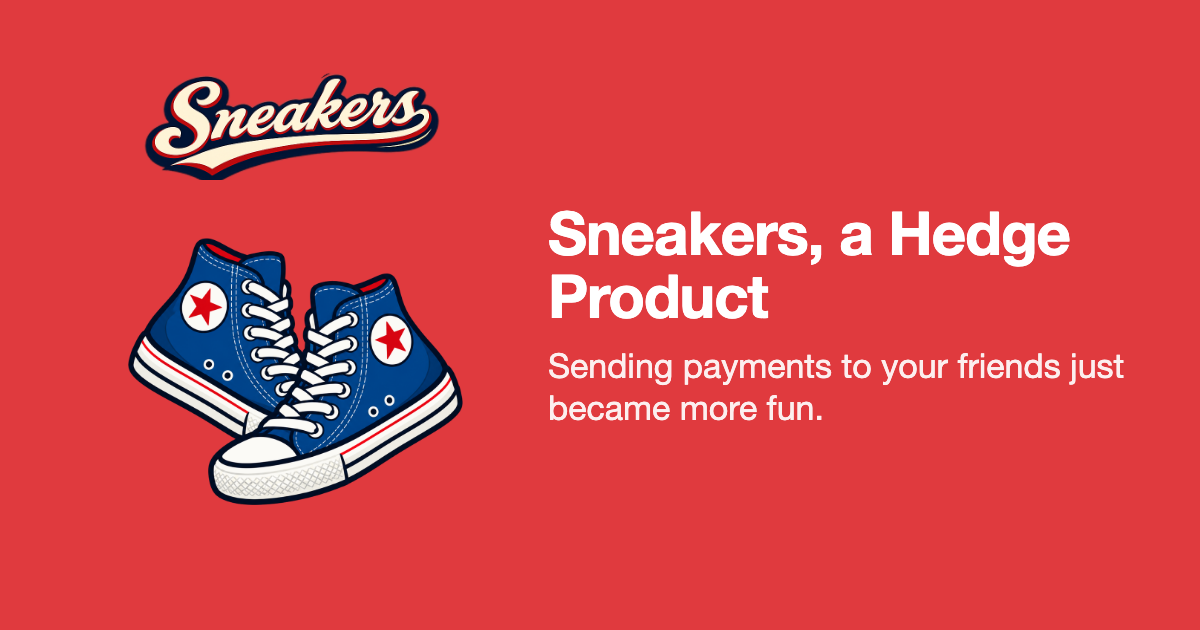
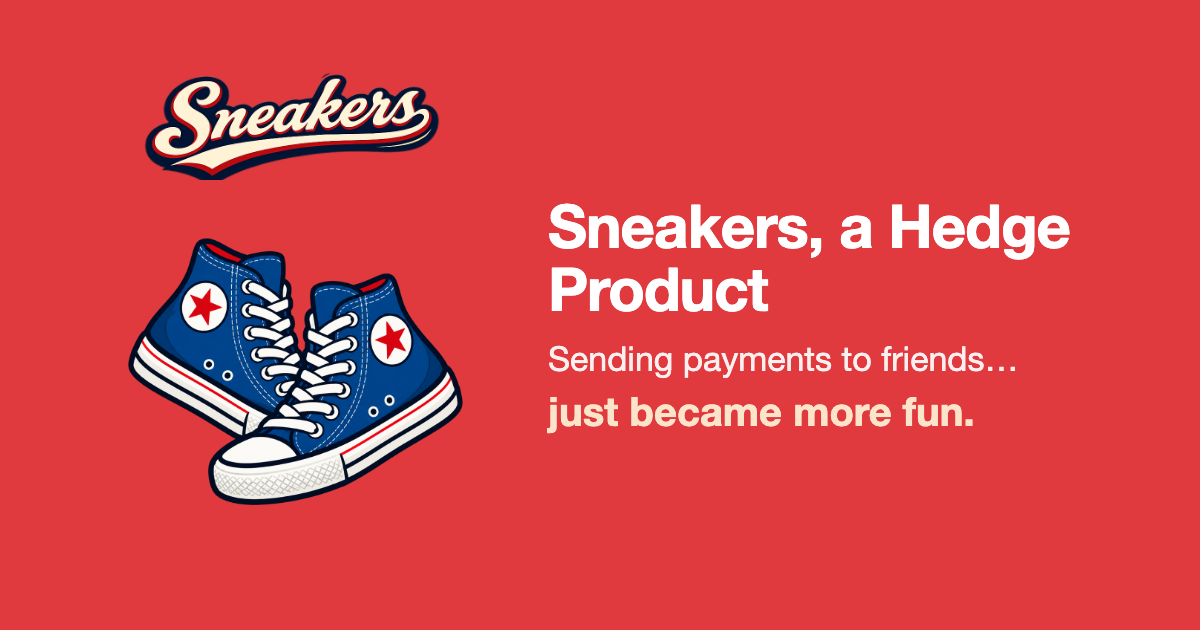
Homepage: "Sending payments to friends… just became more fun." with a bouncing Peace Sans punchline and bobbing shoes

Changed region(s): [[0.4317, 0.3016, 0.8942, 0.5127], [0.4317, 0.5429, 0.9558, 0.6032], [0.4317, 0.6333, 0.8017, 0.6937]]

diff --git a/apps/platform/src/app/page.tsx b/apps/platform/src/app/page.tsx
@@ -4,8 +4,12 @@ import type { Metadata, Viewport } from 'next'
 // sneakersterminal.com is now the front door of Sneakers, the P2P payments app.
 // The red is the app icon's own background, so the icon sits on the page seamlessly.
 const RED = '#E03A3E'
+const CREAM = '#FFF3D6'
+const NAVY = '#0B1E3F'
 const NAME = 'Sneakers, a Hedge Product'
-const TAGLINE = 'Sending payments to your friends just became more fun.'
+const LEAD = 'Sending payments to friends…'
+const PUNCH = 'just became more fun.'
+const TAGLINE = `${LEAD} ${PUNCH}`
 
 export const metadata: Metadata = {
   title: 'Sneakers',
@@ -29,12 +33,38 @@ export const viewport: Viewport = {
   themeColor: RED,
 }
 
+// The punchline's letters bounce in one by one, then ripple every few seconds;
+// the shoes bob. Reduced motion turns all of it off.
+const MOTION = `
+@keyframes sneakers-fade-up { from { opacity: 0; transform: translateY(10px) } to { opacity: 1; transform: none } }
+@keyframes sneakers-pop-in {
+  0% { opacity: 0; transform: translateY(0.55em) rotate(-10deg) scale(0.7) }
+  60% { opacity: 1; transform: translateY(-0.14em) rotate(4deg) scale(1.06) }
+  100% { opacity: 1; transform: none }
+}
+@keyframes sneakers-ripple {
+  0%, 72%, 100% { transform: none }
+  82% { transform: translateY(-0.16em) rotate(-4deg) }
+  91% { transform: translateY(0.03em) rotate(2deg) }
+}
+@keyframes sneakers-bob { 0%, 100% { transform: translateY(0) rotate(0deg) } 50% { transform: translateY(-9px) rotate(-1.5deg) } }
+.sneakers-lead { animation: sneakers-fade-up 0.6s ease-out 0.25s both }
+.sneakers-char { display: inline-block; opacity: 0; animation-name: sneakers-pop-in, sneakers-ripple;
+  animation-duration: 0.65s, 3.4s; animation-timing-function: cubic-bezier(0.2, 0.9, 0.3, 1.4), ease-in-out;
+  animation-fill-mode: forwards, none; animation-iteration-count: 1, infinite }
+.sneakers-shoes { animation: sneakers-bob 3.6s ease-in-out infinite }
+@media (prefers-reduced-motion: reduce) {
+  .sneakers-lead, .sneakers-char, .sneakers-shoes { animation: none !important; opacity: 1 !important; transform: none !important }
+}
+`
+
 export default function LandingPage() {
   return (
     <main
-      className="flex min-h-[100svh] flex-col items-center justify-center px-6 py-16 text-center"
+      className="flex min-h-[100svh] flex-col items-center justify-center overflow-hidden px-6 py-14 text-center"
       style={{ backgroundColor: RED }}
     >
+      <style>{MOTION}</style>
       <Image
         src="/sneakers-wordmark.png"
         alt="Sneakers"
@@ -49,10 +79,46 @@ export default function LandingPage() {
         width={1024}
         height={1024}
         priority
-        className="-mt-2 h-auto w-[min(68vw,400px)]"
+        className="sneakers-shoes -mt-2 h-auto w-[min(64vw,380px)]"
       />
-      <h1 className="mt-4 text-3xl font-bold tracking-tight text-white sm:text-5xl">{NAME}</h1>
-      <p className="mt-4 max-w-xl text-lg leading-snug text-white/90 sm:text-2xl">{TAGLINE}</p>
+      <h1 className="mt-2 text-xl font-semibold tracking-wide text-white/85 sm:text-2xl">{NAME}</h1>
+
+      <p className="sneakers-lead mt-6 text-2xl font-semibold text-white sm:text-3xl">{LEAD}</p>
+      <p
+        className="mt-2 text-[clamp(2.6rem,10vw,5rem)] leading-[1.05]"
+        style={{
+          fontFamily: 'var(--font-peace), var(--font-open-sauce), sans-serif',
+          color: CREAM,
+          WebkitTextStroke: `2px ${NAVY}`,
+          paintOrder: 'stroke fill',
+          textShadow: `0 5px 0 ${NAVY}, 0 9px 0 rgba(11, 30, 63, 0.28)`,
+        }}
+      >
+        <span className="sr-only">{PUNCH}</span>
+        <span aria-hidden="true">
+          {PUNCH.split(' ').map((word, w, words) => {
+            // Letters are numbered across the whole line so the bounce runs left to right.
+            const start = words.slice(0, w).reduce((n, x) => n + x.length + 1, 0)
+            return (
+              <span key={w}>
+                {/* One word never breaks across lines; the spaces between words can. */}
+                <span className="inline-block whitespace-nowrap">
+                  {Array.from(word).map((ch, c) => (
+                    <span
+                      key={c}
+                      className="sneakers-char"
+                      style={{ animationDelay: `${0.7 + (start + c) * 0.05}s, ${1.6 + (start + c) * 0.05}s` }}
+                    >
+                      {ch}
+                    </span>
+                  ))}
+                </span>
+                {w < words.length - 1 ? ' ' : null}
+              </span>
+            )
+          })}
+        </span>
+      </p>
     </main>
   )
 }
